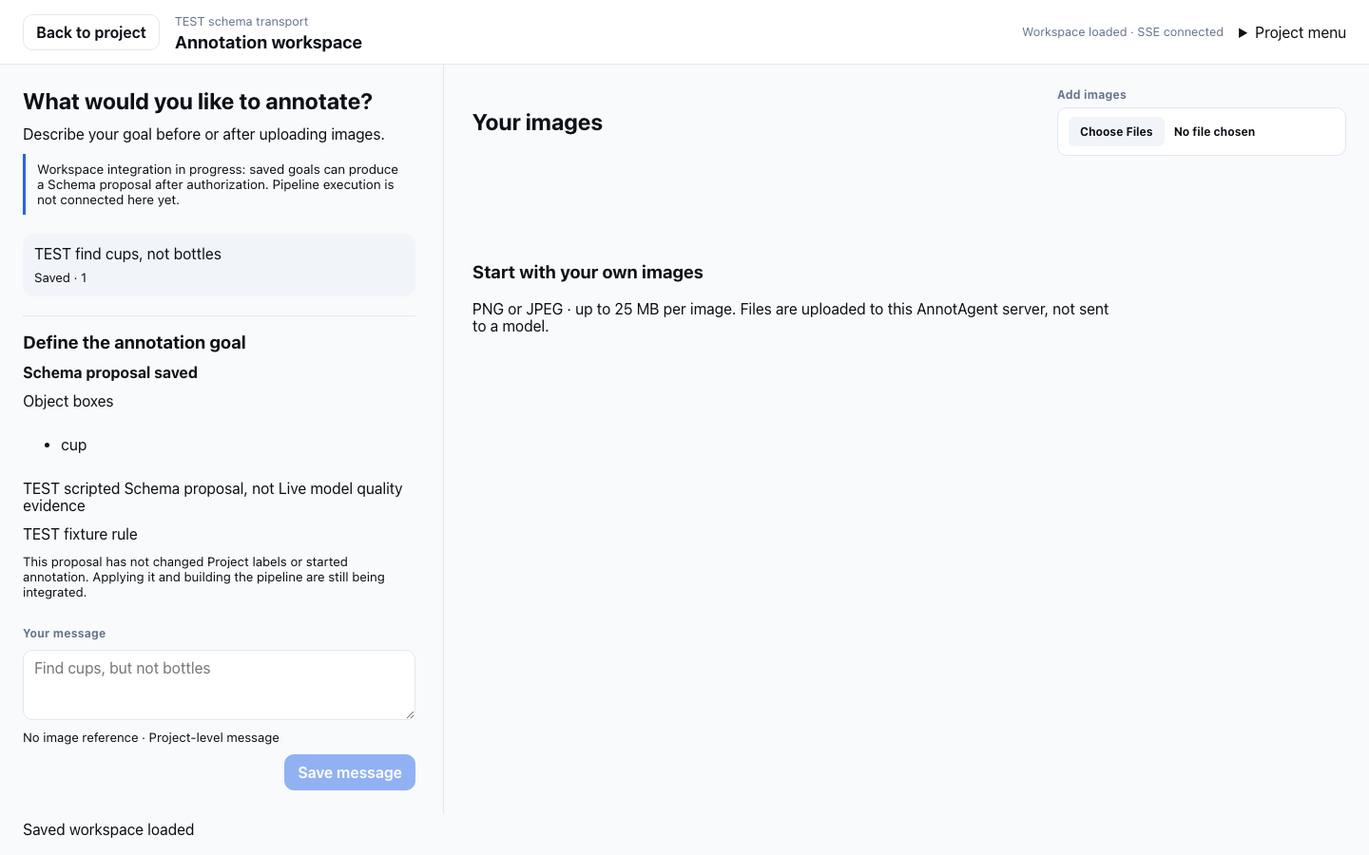
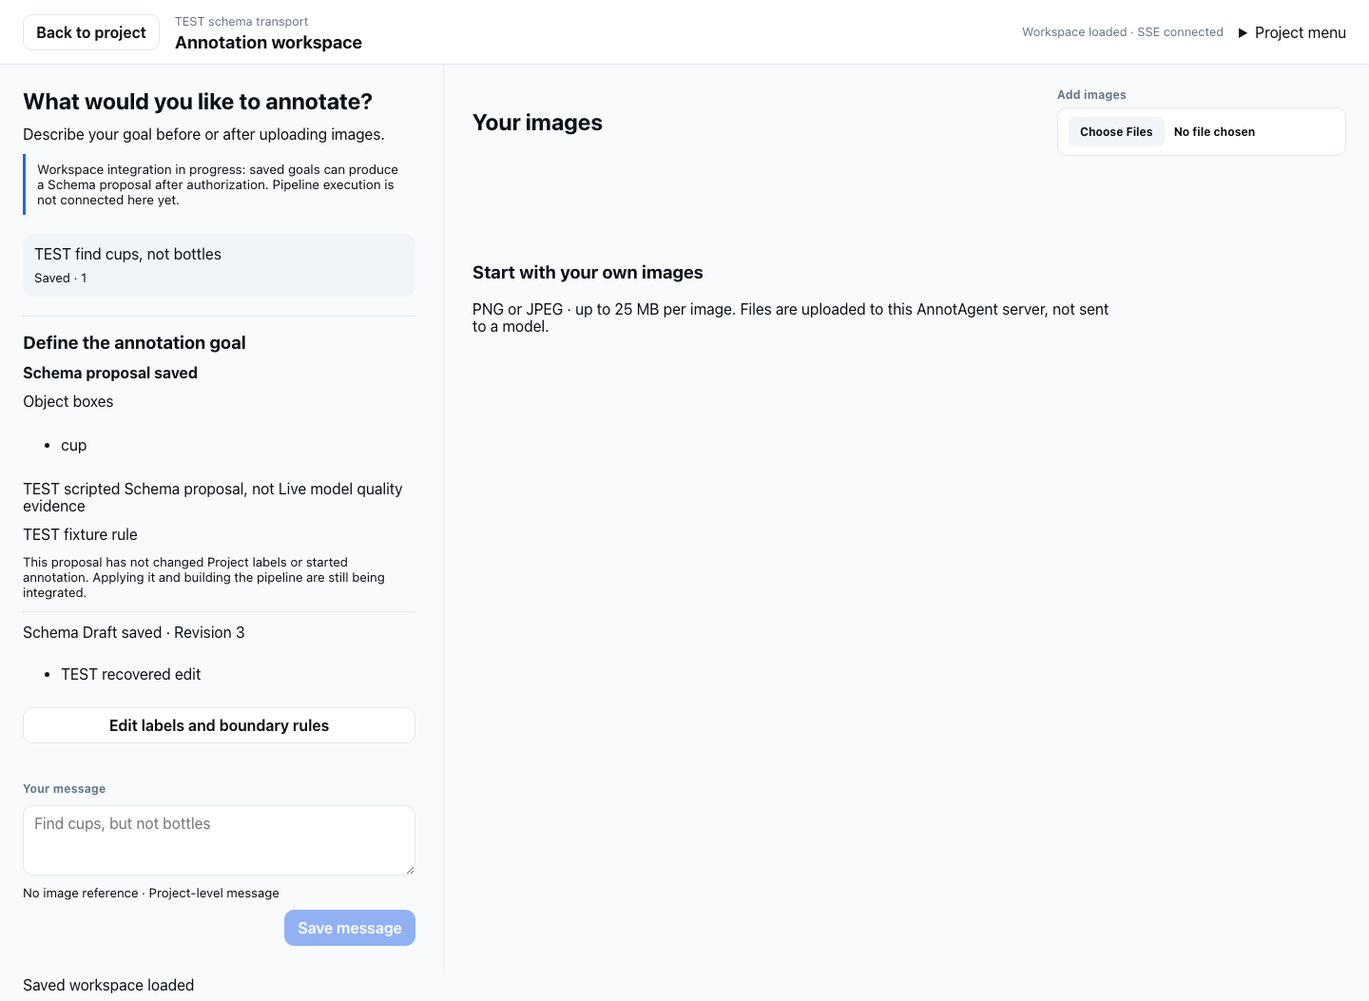
feat(workspace): edit schema drafts with durable retry and reload recovery

diff --git a/web/src/components/ConversationSchemaEditor.tsx b/web/src/components/ConversationSchemaEditor.tsx
@@ -1,0 +1,70 @@
+import { useEffect, useId, useRef, useState } from "react";
+import { api, ApiRequestError } from "../api";
+import type { ConversationSchemaDraft } from "../types";
+
+/** A semantic draft is not the Project schema, a published workflow or a Run. */
+export function ConversationSchemaEditor({ project, conversation, task, call, onDirtyChange }: {
+  project: string; conversation: string; task: string; call: string; onDirtyChange: (dirty: boolean) => void;
+}) {
+  const [draft, setDraft] = useState<ConversationSchemaDraft>();
+  const fieldId = useId();
+  const [labels, setLabels] = useState("");
+  const [rules, setRules] = useState("");
+  const [editing, setEditing] = useState(false);
+  const [ready, setReady] = useState(false);
+  const [busy, setBusy] = useState(false);
+  const [error, setError] = useState("");
+  const [uncertain, setUncertain] = useState(false);
+  const pending = useRef(false);
+  const alive = useRef(true);
+  const frozen = useRef<Parameters<typeof api.editConversationSchemaDraft>[2] | undefined>(undefined);
+  const dirty = busy || uncertain || (editing && (labels !== draft?.definition.task.labels.join("\n") || rules !== draft?.definition.boundary_rules.join("\n")));
+  useEffect(() => { onDirtyChange(dirty); return () => onDirtyChange(false); }, [dirty, onDirtyChange]);
+  useEffect(() => {
+    alive.current = true; const controller = new AbortController();
+    void api.conversationSchemaDraftForCall(project, conversation, task, call, controller.signal).then((saved) => {
+      if (!controller.signal.aborted) { setDraft(saved ?? undefined); setReady(true); }
+    }).catch((error: Error) => { if (!controller.signal.aborted) setError(error.message); });
+    return () => { alive.current = false; controller.abort(); };
+  }, [project, conversation, task, call]);
+  async function save() {
+    if (pending.current) return;
+    pending.current = true; setBusy(true); setError("");
+    try {
+      if (draft) frozen.current ??= {
+        request_id: crypto.randomUUID(), expected_revision: draft.revision,
+        decision: { decision: "draft", kind: draft.definition.task.kind,
+          labels: labels.split("\n").map((label) => label.trim()).filter(Boolean),
+          multi_label: draft.definition.task.multi_label, attributes: draft.definition.task.attributes,
+          boundary_rules: rules.split("\n").map((rule) => rule.trim()).filter(Boolean), rationale: "User-edited annotation semantics" },
+      };
+      const saved = draft
+        ? await api.editConversationSchemaDraft(project, draft.id, frozen.current!)
+        : await api.saveConversationSchemaDraft(project, conversation, task, call);
+      if (alive.current) { setDraft(saved); setEditing(false); setUncertain(false); frozen.current = undefined; }
+    } catch (error) {
+      if (alive.current) {
+        setError((error as Error).message);
+        const rejected = error instanceof ApiRequestError && [400,401,403,404,409,422].includes(error.status);
+        setUncertain(!rejected);
+        if (rejected) frozen.current = undefined;
+      }
+    } finally { pending.current = false; if (alive.current) setBusy(false); }
+  }
+  async function reloadBase() {
+    if (pending.current) return;
+    pending.current = true; setBusy(true);
+    try {
+      const saved = await api.conversationSchemaDraftForCall(project,conversation,task,call);
+      if (alive.current && saved) { setDraft(saved); setError(""); }
+    } catch (error) { if (alive.current) setError((error as Error).message); }
+    finally { pending.current = false; if (alive.current) setBusy(false); }
+  }
+  return <section className="conversation-schema-editor" aria-label="Saved label draft">
+    <p role="status">{busy ? "Saving Schema Draft…" : uncertain ? "Save outcome unknown; retry the same edit" : dirty ? `Unsaved edits · Based on revision ${draft?.revision}` : draft ? `Schema Draft saved · Revision ${draft.revision}` : "This proposal has not yet become an editable draft"}</p>
+    {draft && !editing && <><ul>{draft.definition.task.labels.map((label) => <li key={label}>{label}</li>)}</ul><button onClick={() => { setLabels(draft.definition.task.labels.join("\n")); setRules(draft.definition.boundary_rules.join("\n")); setEditing(true); }}>Edit labels and boundary rules</button></>}
+    {editing && <><label htmlFor={`${fieldId}-labels`}>Labels · one per line</label><textarea id={`${fieldId}-labels`} rows={3} value={labels} disabled={busy || uncertain} onChange={(event) => setLabels(event.target.value)} /><label htmlFor={`${fieldId}-rules`}>Boundary rules · one per line</label><textarea id={`${fieldId}-rules`} rows={3} value={rules} disabled={busy || uncertain} onChange={(event) => setRules(event.target.value)} /><small>Edits belong to this Schema Draft only. They do not change published workflows or accept annotations.</small></>}
+    {(!draft || editing) && <div className="button-row">{editing && <button disabled={busy || uncertain} onClick={() => { setEditing(false); setError(""); }}>Cancel edit</button>}<button disabled={!ready || busy || (editing && !labels.trim())} onClick={() => void save()}>{uncertain ? "Retry same Schema save" : draft ? "Save Schema changes" : "Save as editable Schema Draft"}</button></div>}
+    {error && <><p role="alert">{error} Your entered labels remain here.</p>{editing && !uncertain && <button disabled={busy} onClick={() => void reloadBase()}>Load latest revision; keep my edits</button>}</>}
+  </section>;
+}

diff --git a/web/src/components/ConversationWorkspace.tsx b/web/src/components/ConversationWorkspace.tsx
@@ -1,4 +1,4 @@
-import { useEffect, useRef, useState, type CSSProperties } from "react";
+import { useCallback, useEffect, useRef, useState, type CSSProperties } from "react";
 import { api } from "../api";
 import { projectWorkPath } from "../navigation";
 import type { ConversationMessage, ConversationMessageInput, ImageItem, ProjectSummary } from "../types";
@@ -25,14 +25,16 @@ export function ConversationWorkspace({ project, conversationId, imageId, onNavi
   const pending = useRef(false);
   const selectingImage = useRef(false);
   const unsent = useRef("");
+  const schemaDirty = useRef(false);
+  const schemaDirtyChange = useCallback((dirty: boolean) => { schemaDirty.current = dirty; }, []);
   const frozen = useRef<ConversationMessageInput | undefined>(undefined);
   const alive = useRef(true);
   const selected = images.find((image) => image.image_id === imageId) ?? (!imageId ? images[0] : undefined);
   const referenceImage = frozen.current ? images.find((image) => image.image_id === frozen.current?.image?.image_id) : selected;
   useEffect(() => { alive.current = true; return () => { alive.current = false; }; }, []);
   useEffect(() => {
-    const guard = () => selectingImage.current || (!pending.current && (!unsent.current || window.confirm("Leave without sending this message? Uploaded images remain saved.")));
-    const unload = (event: BeforeUnloadEvent) => { if (pending.current || unsent.current) event.preventDefault(); };
+    const guard = () => selectingImage.current || (!pending.current && (!(unsent.current || schemaDirty.current) || window.confirm("Leave with unsaved message or Schema edits? Saved workspace data remains on the server.")));
+    const unload = (event: BeforeUnloadEvent) => { if (pending.current || unsent.current || schemaDirty.current) event.preventDefault(); };
     onNavigationGuardChange(guard);
     window.addEventListener("beforeunload", unload);
     return () => { onNavigationGuardChange(undefined); window.removeEventListener("beforeunload", unload); };
@@ -107,7 +109,7 @@ export function ConversationWorkspace({ project, conversationId, imageId, onNavi
             openImage(image.image_id);
           }}>Referenced image · {images.find((image) => image.image_id === message.input.image?.image_id)?.name ?? message.input.image.image_id}</button>}<small>Saved · {message.sequence}</small></li>)}
         </ol>
-        {conversation && messages[0] && <ConversationSchemaCard key={`${conversation}:${messages[0].input.id}`} project={project.id} conversation={conversation} message={messages[0].input.id} />}
+        {conversation && messages[0] && <ConversationSchemaCard key={`${conversation}:${messages[0].input.id}`} project={project.id} conversation={conversation} message={messages[0].input.id} onDirtyChange={schemaDirtyChange} />}
         <form onSubmit={(event) => { event.preventDefault(); void send(); }} className="conversation-composer">
           <label htmlFor="conversation-message">Your message</label>
           <textarea id="conversation-message" value={text} disabled={busy || Boolean(frozen.current)} rows={3} placeholder="Find cups, but not bottles" onChange={(event) => { unsent.current = event.target.value; setText(event.target.value); }} />

diff --git a/web/src/api.ts b/web/src/api.ts
@@ -562,6 +562,9 @@ export const api = {
   conversationTasks: (project: string, conversation: string, signal?: AbortSignal) => request<import("./types").ConversationTask[]>(`/api/projects/${encodeURIComponent(project)}/conversations/${encodeURIComponent(conversation)}/tasks`, { signal }),
   beginConversationTask: (project: string, conversation: string, input: import("./types").ConversationTask["input"]) => request<import("./types").ConversationTask>(`/api/projects/${encodeURIComponent(project)}/conversations/${encodeURIComponent(conversation)}/tasks`, { method: "POST", body: JSON.stringify(input) }),
   conversationSchemaPreview: (project: string, conversation: string, task: string) => request<import("./types").ConversationSchemaPreview>(`/api/projects/${encodeURIComponent(project)}/conversations/${encodeURIComponent(conversation)}/tasks/${encodeURIComponent(task)}/schema-preview`),
+  conversationSchemaDraftForCall: (project: string, conversation: string, task: string, call: string, signal?: AbortSignal) => request<import("./types").ConversationSchemaDraft | null>(`/api/projects/${encodeURIComponent(project)}/conversations/${encodeURIComponent(conversation)}/tasks/${encodeURIComponent(task)}/calls/${encodeURIComponent(call)}/schema-draft`, { signal }),
+  saveConversationSchemaDraft: (project: string, conversation: string, task: string, call: string) => request<import("./types").ConversationSchemaDraft>(`/api/projects/${encodeURIComponent(project)}/conversations/${encodeURIComponent(conversation)}/tasks/${encodeURIComponent(task)}/calls/${encodeURIComponent(call)}/schema-draft`, { method: "POST" }),
+  editConversationSchemaDraft: (project: string, draft: string, input: { request_id: string; expected_revision: number; decision: unknown }) => request<import("./types").ConversationSchemaDraft>(`/api/projects/${encodeURIComponent(project)}/conversation-schema-drafts/${encodeURIComponent(draft)}`, { method: "POST", body: JSON.stringify(input) }),
   conversationSchemaCalls: (project: string, conversation: string, task: string, signal?: AbortSignal) => request<import("./types").ConversationCallReceipt[]>(`/api/projects/${encodeURIComponent(project)}/conversations/${encodeURIComponent(conversation)}/tasks/${encodeURIComponent(task)}/calls`, { signal }),
   proposeConversationSchema: (project: string, conversation: string, task: string, consent: { call_id: string; model_id: string; scope_hash: string; expires_at: string; allow_unknown_cost: boolean }) => request<import("./types").ConversationCallReceipt>(`/api/projects/${encodeURIComponent(project)}/conversations/${encodeURIComponent(conversation)}/tasks/${encodeURIComponent(task)}/schema-proposals`, { method: "POST", body: JSON.stringify(consent) }),
   cancelConversationSchema: (project: string, conversation: string, task: string, call: string) => request<import("./types").ConversationCallCancellation>(`/api/projects/${encodeURIComponent(project)}/conversations/${encodeURIComponent(conversation)}/tasks/${encodeURIComponent(task)}/calls/${encodeURIComponent(call)}/cancel`, { method: "POST" }),

diff --git a/web/e2e/conversation-schema.spec.ts b/web/e2e/conversation-schema.spec.ts
@@ -34,6 +34,7 @@ test("authorized conversation Schema crosses actual HTTP Provider transport once
     expect((await (await request.get(`${taskRoot}/calls/${consent.call_id}`)).json())).toEqual(receipt);
     expect((await request.post(`${taskRoot}/schema-proposals`,{data:{...consent,call_id:randomUUID()}})).status()).toBe(400);
     const saveRoot = `${taskRoot}/calls/${consent.call_id}/schema-draft`;
+    expect(await (await request.get(saveRoot)).json()).toBeNull();
     const savedResponse = await request.post(saveRoot);
     expect(savedResponse.ok()).toBeTruthy();
     const schemaDraft = await savedResponse.json();
@@ -68,6 +69,29 @@ test("authorized conversation Schema crosses actual HTTP Provider transport once
   await page.reload();
   await expect(page.getByText("Schema proposal saved",{exact:true})).toBeVisible();
   await expect(page.getByText("Object boxes",{exact:true})).toBeVisible();
+  await page.getByRole("button",{name:"Save as editable Schema Draft",exact:true}).click();
+  await expect(page.getByText("Schema Draft saved · Revision 1",{exact:true})).toBeVisible();
+  await page.getByRole("button",{name:"Edit labels and boundary rules",exact:true}).click();
+  await page.getByLabel("Labels · one per line",{exact:true}).fill("TEST edited cup");
+  await expect(page.getByText("Unsaved edits · Based on revision 1",{exact:true})).toBeVisible();
+  await page.getByRole("button",{name:"Save Schema changes",exact:true}).click();
+  await expect(page.getByText("Schema Draft saved · Revision 2",{exact:true})).toBeVisible();
+  let reloadWrites = 0;
+  page.on("request",(req)=>{if(req.method()==="POST" && req.url().includes("/api/")) reloadWrites++;});
+  await page.reload();
+  await expect(page.getByText("Schema Draft saved · Revision 2",{exact:true})).toBeVisible();
+  await expect(page.getByRole("region",{name:"Saved label draft"}).getByText("TEST edited cup",{exact:true})).toBeVisible();
+  expect(reloadWrites).toBe(0);
+  await page.getByRole("button",{name:"Edit labels and boundary rules",exact:true}).click();
+  await page.getByLabel("Labels · one per line",{exact:true}).fill("TEST recovered edit");
+  await page.route("**/conversation-schema-drafts/*",async(route)=>{
+    const saved = await route.fetch(); expect(saved.ok()).toBeTruthy(); await route.abort("failed");
+  },{times:1});
+  await page.getByRole("button",{name:"Save Schema changes",exact:true}).click();
+  await expect(page.getByText("Save outcome unknown; retry the same edit",{exact:true})).toBeVisible();
+  await expect(page.getByLabel("Labels · one per line",{exact:true})).toHaveValue("TEST recovered edit");
+  await page.getByRole("button",{name:"Retry same Schema save",exact:true}).click();
+  await expect(page.getByText("Schema Draft saved · Revision 3",{exact:true})).toBeVisible();
   for (const width of [1440,390]) {
     await page.setViewportSize({width,height:width===390?844:900});
     expect(await page.evaluate(()=>document.documentElement.scrollWidth)).toBeLessThanOrEqual(width);

diff --git a/web/src/components/ConversationSchemaCard.tsx b/web/src/components/ConversationSchemaCard.tsx
@@ -1,9 +1,10 @@
 import { useEffect, useRef, useState } from "react";
 import { api, ApiRequestError } from "../api";
 import type { ConversationCallReceipt, ConversationSchemaPreview, ConversationTask } from "../types";
+import { ConversationSchemaEditor } from "./ConversationSchemaEditor";
 
 /** Restores server objects; mounting never creates a task or invokes a model. */
-export function ConversationSchemaCard({ project, conversation, message }: { project: string; conversation: string; message: string }) {
+export function ConversationSchemaCard({ project, conversation, message, onDirtyChange }: { project: string; conversation: string; message: string; onDirtyChange: (dirty: boolean) => void }) {
   const [task, setTask] = useState<ConversationTask>();
   const [preview, setPreview] = useState<ConversationSchemaPreview>();
   const [receipt, setReceipt] = useState<ConversationCallReceipt>();
@@ -76,6 +77,7 @@ export function ConversationSchemaCard({ project, conversation, message }: { pro
     {waiting && <><p role="status">Request recorded or being submitted. Checking the saved outcome; no automatic model retry.</p><button onClick={() => void stop()}>Stop Schema request</button><small>You may return to the Project; leaving does not cancel this request.</small></>}
     {decision && <div className="conversation-proposal-result"><strong>{decision.decision === "clarify" ? "Clarification needed" : "Schema proposal saved"}</strong>{decision.question && <p>{decision.question}</p>}{decision.kind && <p>{decision.kind === "bounding_box" ? "Object boxes" : "Whole-image categories"}</p>}{decision.labels && <ul>{decision.labels.map((label) => <li key={label}>{label}</li>)}</ul>}<p>{decision.rationale}</p>{decision.boundary_rules?.map((rule) => <p key={rule}>{rule}</p>)}<small>This proposal has not changed Project labels or started annotation. Applying it and building the pipeline are still being integrated.</small></div>}
     {receipt && receipt.status !== "reserved" && !decision && <p role="alert">{receipt.evidence?.error || receipt.evidence?.decision?.Err || "No valid Schema proposal was produced. Saved evidence is retained; no automatic retry."}</p>}
+    {decision?.decision === "draft" && task && receipt && <ConversationSchemaEditor key={receipt.id} project={project} conversation={conversation} task={task.input.id} call={receipt.id} onDirtyChange={onDirtyChange} />}
     {error && <p role="alert">{error}</p>}
   </section>;
 }

diff --git a/web/src/types.ts b/web/src/types.ts
@@ -1872,6 +1872,13 @@ export interface ConversationSchemaPreview {
   scope_hash: string; maximum_calls: number; image_count: number; estimated_cost: null;
   expires_at: string; maximum_output_tokens: number; data_scope: string; operation: string;
 }
+export interface ConversationSchemaDraft {
+  id: string; task_id: string; source_call_id: string; base_schema_revision: string; revision: number;
+  definition: { goal: string; boundary_rules: string[]; task: {
+    id: string; kind: "classification" | "bounding_box"; labels: string[]; multi_label: boolean;
+    attributes: Record<string, { type: string; required: boolean; values: string[] }>;
+  } };
+}
 export interface ConversationCallReceipt {
   id: string; task_id: string; status: "reserved" | "completed" | "failed" | "in_doubt";
   evidence?: { error?: string; decision?: { Err?: string; Ok?: { decision: "draft" | "clarify"; kind?: string; labels?: string[]; question?: string; rationale: string; boundary_rules?: string[] } } };

diff --git a/web/src/components/conversation-workspace.css b/web/src/components/conversation-workspace.css
@@ -22,6 +22,9 @@
 .conversation-schema-card, .conversation-consent, .conversation-proposal-result { display: grid; gap: 12px; min-width: 0; overflow-wrap: anywhere; }
 .conversation-schema-card { padding-block: 16px; border-block-start: 1px solid var(--aa-border); }
 .conversation-schema-card h3 { margin: 0; }
+.conversation-schema-editor, .conversation-schema-editor label { display: grid; gap: 10px; min-width: 0; }
+.conversation-schema-editor { padding-block: 12px; border-block-start: 1px solid var(--aa-border); }
+.conversation-schema-editor textarea { width: 100%; min-width: 0; resize: vertical; }
 .conversation-consent label { display: flex; align-items: start; gap: 10px; }
 .conversation-consent input[type=checkbox] { flex-shrink: 0; margin-top: 3px; }
 .conversation-image { margin: 18px 0; display: grid; gap: 10px; }

diff --git a/crates/annotagent-server/src/workspace_routes.rs b/crates/annotagent-server/src/workspace_routes.rs
@@ -34,7 +34,7 @@ pub(super) fn routes() -> Router<ServerState> {
         .route("/api/projects/{project_id}/conversations/{conversation_id}/tasks/{task_id}/calls/{call_id}/cancel", post(super::conversation_schema::cancel))
         .route("/api/projects/{project_id}/conversations/{conversation_id}/tasks/{task_id}/schema-preview", get(super::conversation_schema::preview))
         .route("/api/projects/{project_id}/conversations/{conversation_id}/tasks/{task_id}/schema-proposals", post(super::conversation_schema::propose))
-        .route("/api/projects/{project_id}/conversations/{conversation_id}/tasks/{task_id}/calls/{call_id}/schema-draft", post(super::conversation_schema::save_draft))
+        .route("/api/projects/{project_id}/conversations/{conversation_id}/tasks/{task_id}/calls/{call_id}/schema-draft", get(super::conversation_schema::draft_for_call).post(super::conversation_schema::save_draft))
         .route("/api/projects/{project_id}/conversation-schema-drafts/{draft_id}", get(super::conversation_schema::read_draft).post(super::conversation_schema::edit_draft))
         .route("/api/projects/{project_id}/conversations/{conversation_id}/tasks/{task_id}/calls/{call_id}", get(super::conversation_schema::receipt))
         .route(

diff --git a/crates/annotagent-application/src/conversation_schema.rs b/crates/annotagent-application/src/conversation_schema.rs
@@ -42,6 +42,25 @@ impl Drop for CallCancellationGuard<'_> {
 }
 
 impl crate::LocalApplication {
+    pub fn conversation_schema_for_call(
+        &self,
+        project: &str,
+        conversation: Uuid,
+        task: Uuid,
+        call: Uuid,
+    ) -> Result<Option<annotagent_storage::ConversationSchemaDraft>> {
+        if !self
+            .conversation_tasks(project, conversation)?
+            .iter()
+            .any(|item| item.input.id == task)
+        {
+            bail!("task does not belong to this conversation");
+        }
+        let owner = self.conversation_project_identity(project)?;
+        Ok(self
+            .store
+            .conversation_schema_for_call(&owner, task, call)?)
+    }
     /// Materialize only a validated, owned, persisted proposal. Never changes Project YAML.
     pub fn save_conversation_schema_draft(
         &self,

diff --git a/crates/annotagent-storage/src/conversation_schema.rs b/crates/annotagent-storage/src/conversation_schema.rs
@@ -59,6 +59,18 @@ fn read(
     })
 }
 impl SqliteStore {
+    pub fn conversation_schema_for_call(
+        &self,
+        project: &str,
+        task: Uuid,
+        call: Uuid,
+    ) -> Result<Option<ConversationSchemaDraft>, StorageError> {
+        self.with_connection(|db| {
+            owned(db, project, task)?;
+            let id: Option<String> = db.query_row("SELECT id FROM conversation_schema_drafts WHERE task_id=?1 AND source_call_id=?2", params![task.to_string(),call.to_string()], |row| row.get(0)).optional()?;
+            id.map(|id| read(db, project, Uuid::parse_str(&id).map_err(|_| invalid("invalid Schema ID"))?, None)).transpose()
+        })
+    }
     /// Application validates the completed proposal and Core `TaskConfig` before calling.
     pub fn create_conversation_schema_draft(
         &self,

diff --git a/crates/annotagent-server/src/conversation_schema.rs b/crates/annotagent-server/src/conversation_schema.rs
@@ -34,6 +34,22 @@ pub(super) async fn save_draft(
         .map_err(ApiError::bad_request)
 }
 
+pub(super) async fn draft_for_call(
+    State(state): State<ServerState>,
+    AxumPath((project, conversation, task, call)): AxumPath<(
+        String,
+        uuid::Uuid,
+        uuid::Uuid,
+        uuid::Uuid,
+    )>,
+) -> ApiResult<Json<Option<annotagent_storage::ConversationSchemaDraft>>> {
+    state
+        .application
+        .conversation_schema_for_call(&project, conversation, task, call)
+        .map(Json)
+        .map_err(ApiError::bad_request)
+}
+
 pub(super) async fn read_draft(
     State(state): State<ServerState>,
     AxumPath((project, draft)): AxumPath<(String, uuid::Uuid)>,

diff --git a/docs/execution/CONVERSATIONAL_WORKSPACE_STATUS.md b/docs/execution/CONVERSATIONAL_WORKSPACE_STATUS.md
@@ -371,3 +371,30 @@ Builder still reads Project YAML; it must not be advertised as consuming this ne
 Schema Draft yet. Shared later-phase authorization, Human Request/outbox and the
 complete sample→processing→review→export journey remain active work. No default
 navigation switch, real-workspace restart, push or human usability test occurred.
+
+### Conversation Schema editing and read-only restoration (M2, continued)
+
+The conversation card can now explicitly materialize a saved proposal, edit labels
+and boundary rules, and restore its current revision through a new read-only lookup
+by owned task/call. Mount and reload never materialize a draft. The editor preserves
+the proposed output kind, multi-label setting and attributes; editing these additional
+fields in the UI remains pending. The model proposal remains historical evidence,
+separate from the editable revision. Neither is advertised as a running Pipeline.
+
+Unsaved edits participate in the workspace dirty guard and browser unload warning.
+Saving uses a frozen edit/idempotency key. If the server saves but its response is
+lost, the typed labels remain visible and retry returns the same revision. Rejected
+edits retain input, with a deliberate reload-latest-base action for revision conflicts.
+Initial browser testing exposed an implicit textarea label lookup problem; explicit
+unique input/label association fixed it and the same test passed afterward.
+
+Evidence: Web typecheck and **105/105** unit tests passed, Application Schema **4/4**
+passed, strict storage/Application/server Clippy passed. Isolated browser test **1/1**,
+7.0s, `/tmp/annotagent-guided-e2e-81466`, verifies materialization, editing, refresh with
+zero POST requests, and server-save/response-loss→same-request retry→revision 3 (not
+4). Existing transport consent, revision API and cancellation checks also pass.
+Updated `schema-{1440,390}.png`; mobile screenshot inspected for wrapping and input/
+action spacing. These remain TEST goal-before-upload screens, not live visual quality
+evidence. Production build has the existing large-chunk warning. Full workspace
+regression, actual Pipeline schema binding, human requests and complete golden paths
+remain pending. No real workspace data, remote or server restart was changed.
